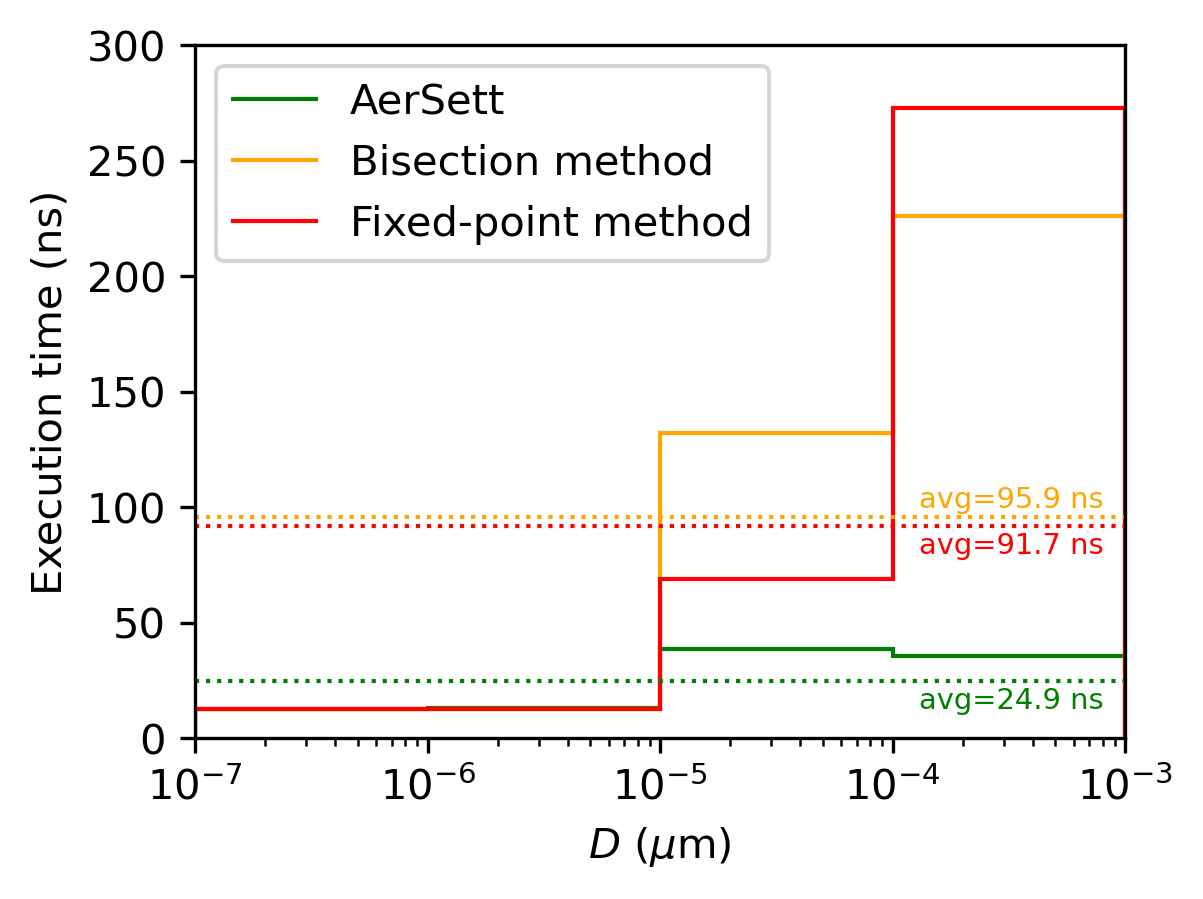
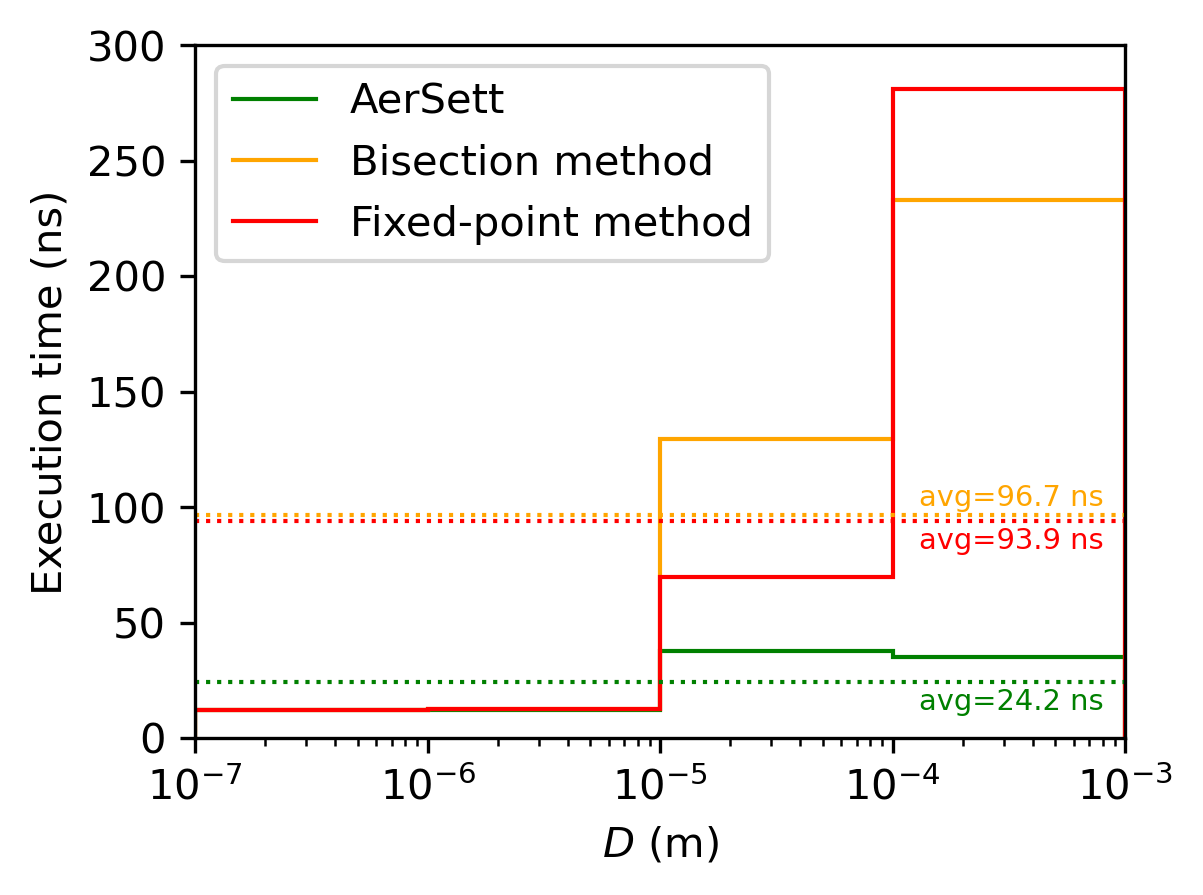
Update threshold

diff --git a/fortran/plotspeed.py b/fortran/plotspeed.py
@@ -9,13 +9,13 @@ expintervals=np.asarray([-7.,-6.,-5.,-4.,-3.])
 expcenters=10.**(np.asarray([-6.5, -5.5, -4.5, -3.5]))
 
 niters={}
-niters['fixpoint']=[ 0., 0., 1.40372717, 7.11220407 ]
-niters['bisection']=[ 0., 0., 4.41905737, 7.47149038 ]
+niters['fixpoint']=[ 0., 0., 1.47902966, 7.40053558 ]
+niters['bisection']=[ 0., 0., 4.45684910, 7.83219337 ]
 
 exetime={}
-exetime['fixpoint']=[ 12.400000000000000, 12.699999999999999, 69.000000000000000, 272.69999999999999 ]
-exetime['bisection']=[ 12.480000000000000, 12.730000000000000, 132.16000000000000, 226.11000000000001 ]
-exetime['aersett']=[ 12.529999999999999, 12.890000000000001, 38.549999999999997, 35.579999999999998 ]
+exetime['fixpoint']=[ 12.070000000000000, 12.410000000000000, 69.890000000000001, 281.07999999999998 ]
+exetime['bisection']=[ 12.100000000000000, 12.369999999999999, 129.59000000000000, 232.86000000000001 ]
+exetime['aersett']=[ 11.990000000000000, 12.199999999999999, 37.649999999999999, 35.159999999999997 ]
 
 labeldict={}
 labeldict['fixpoint']='Fixed-point method'
